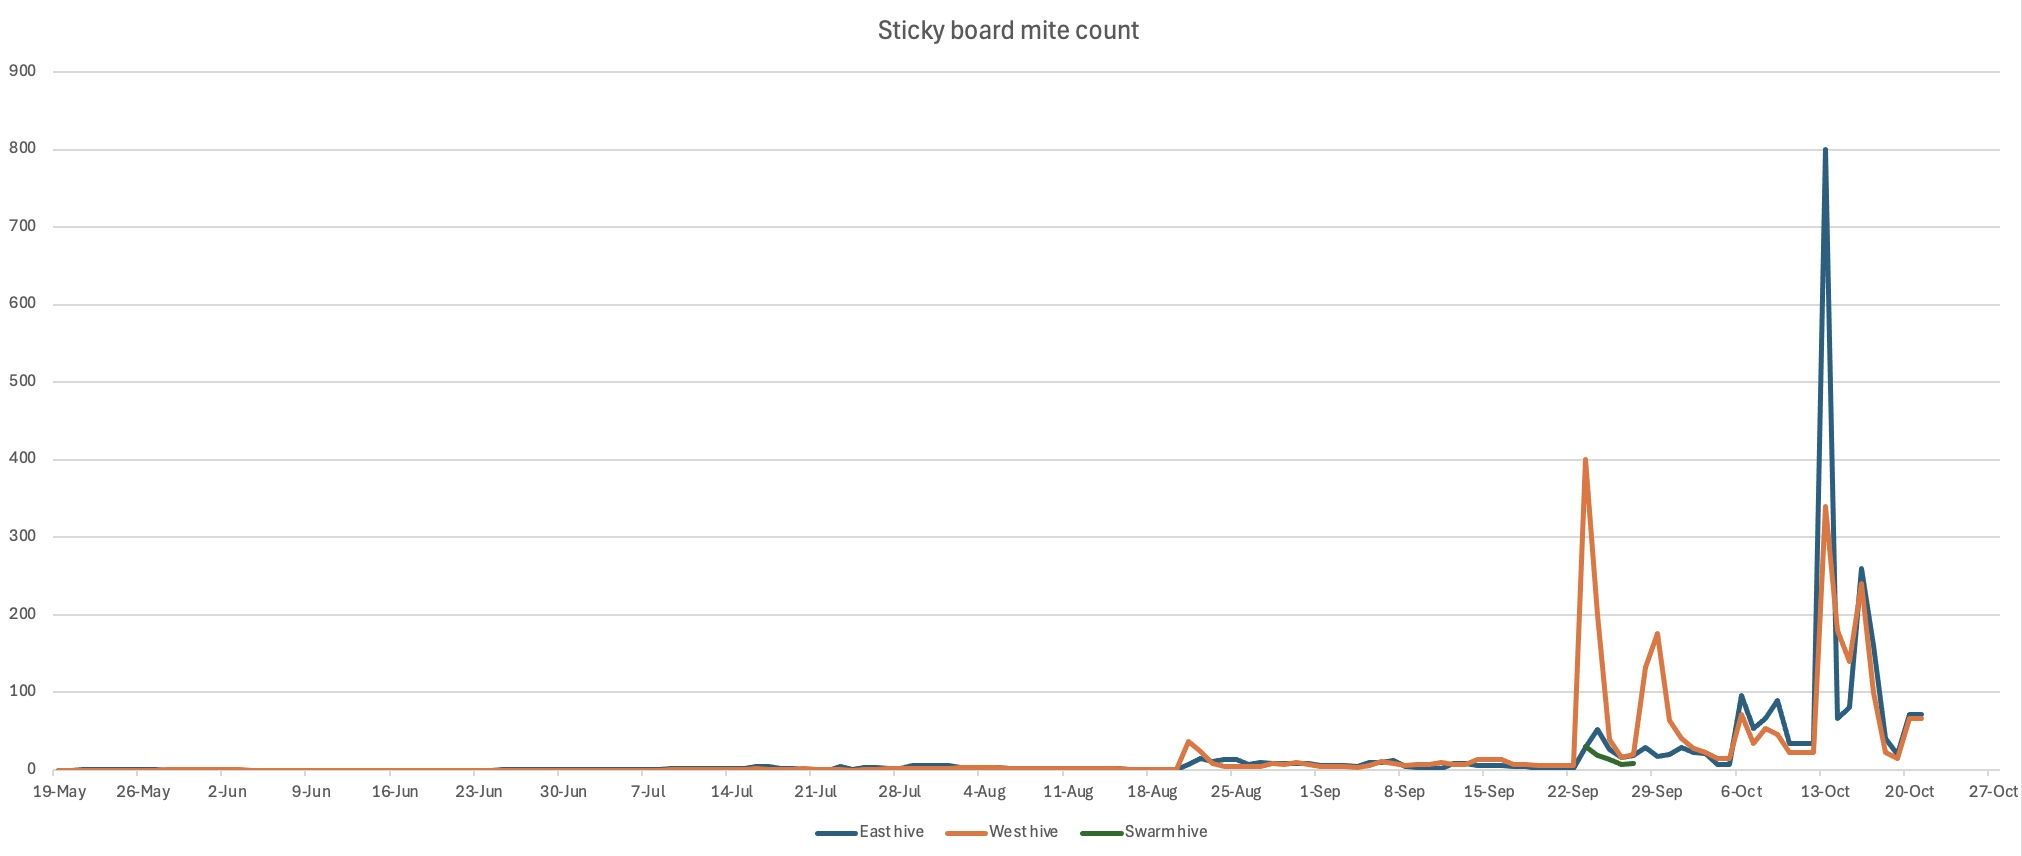
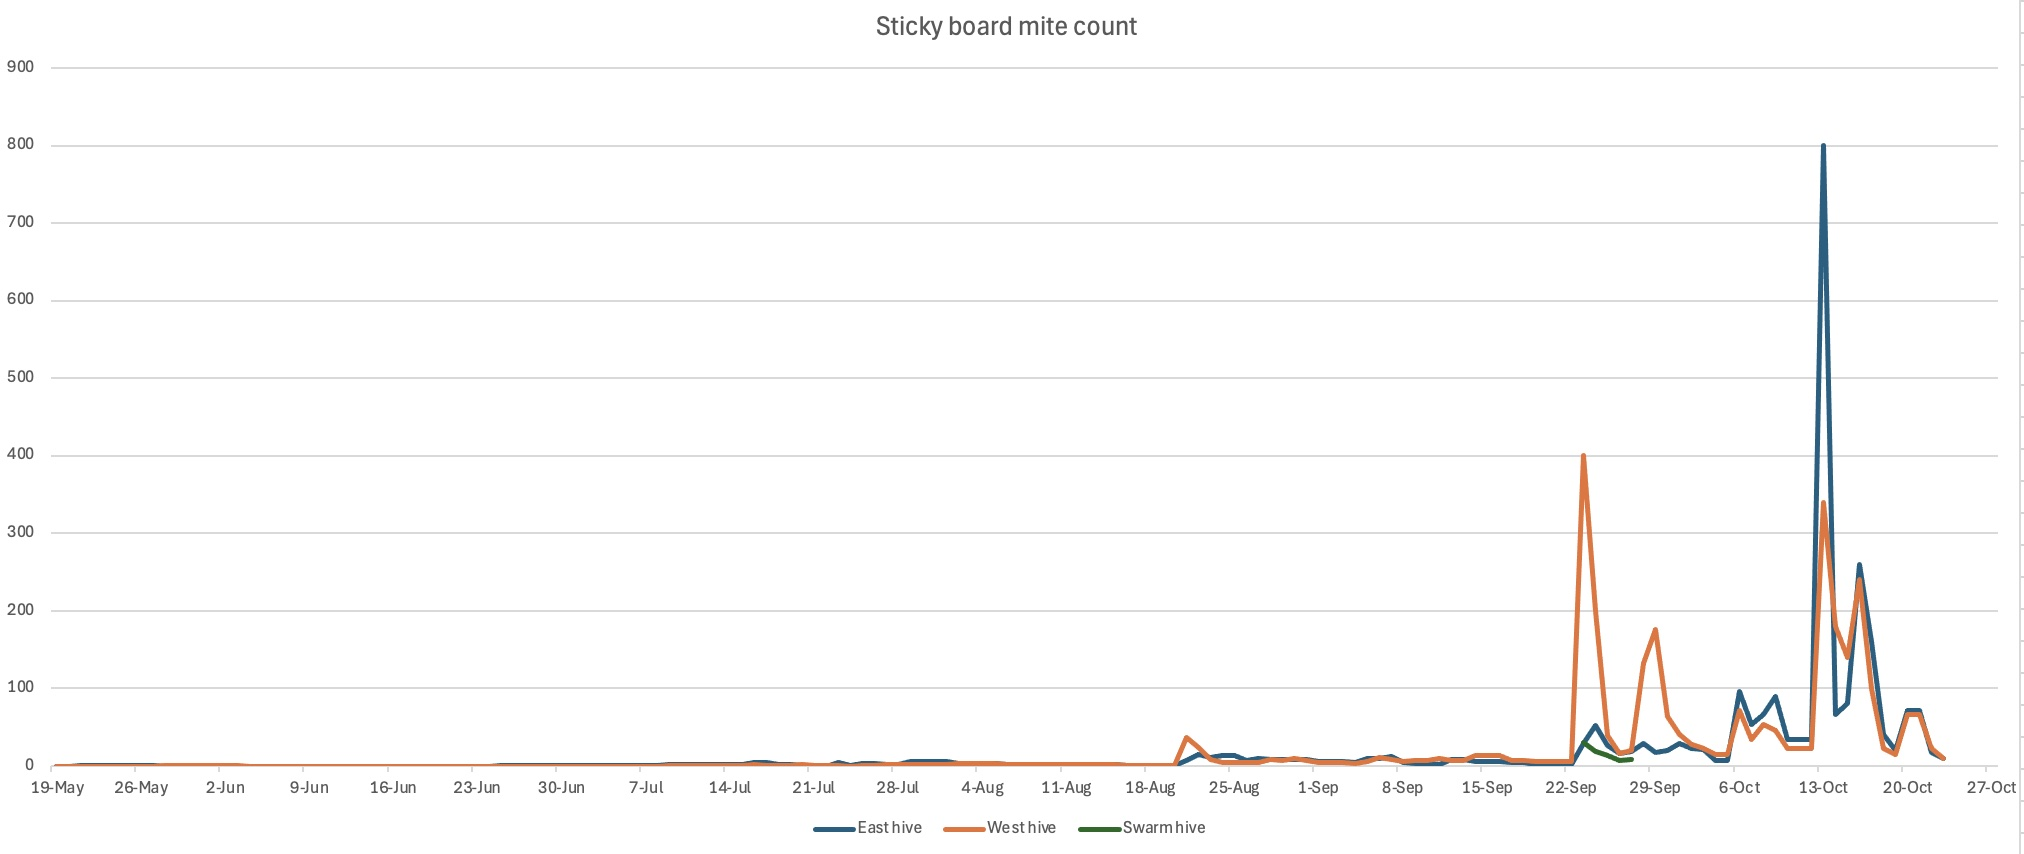
added updates

Changed region(s): [[0.0, 0.0, 1.0, 1.0]]

diff --git a/_posts/2024-10-22-hive-notes.md b/_posts/2024-10-22-hive-notes.md
@@ -1,0 +1,19 @@
+---
+title: "Hive Notes"
+date: 2024-10-22
+---
+
+- Time: ~08.00
+- Temp: ~51F, cloudy
+
+### East hive
+
+- Bottom board had 18 mites
+- Wiped and re-oiled the bottom board.
+
+### West hive
+
+- Bottom board had 22 mites
+- Wiped and re-oiled the bottom board.
+
+

diff --git a/_posts/2024-10-23-hive-notes.md b/_posts/2024-10-23-hive-notes.md
@@ -1,0 +1,19 @@
+---
+title: "Hive Notes"
+date: 2024-10-23
+---
+
+- Time: ~08.00
+- Temp: ~47F, cloudy
+
+### East hive
+
+- Bottom board had 10 mites
+- Wiped and re-oiled the bottom board.
+
+### West hive
+
+- Bottom board had 10 mites
+- Wiped and re-oiled the bottom board.
+
+
